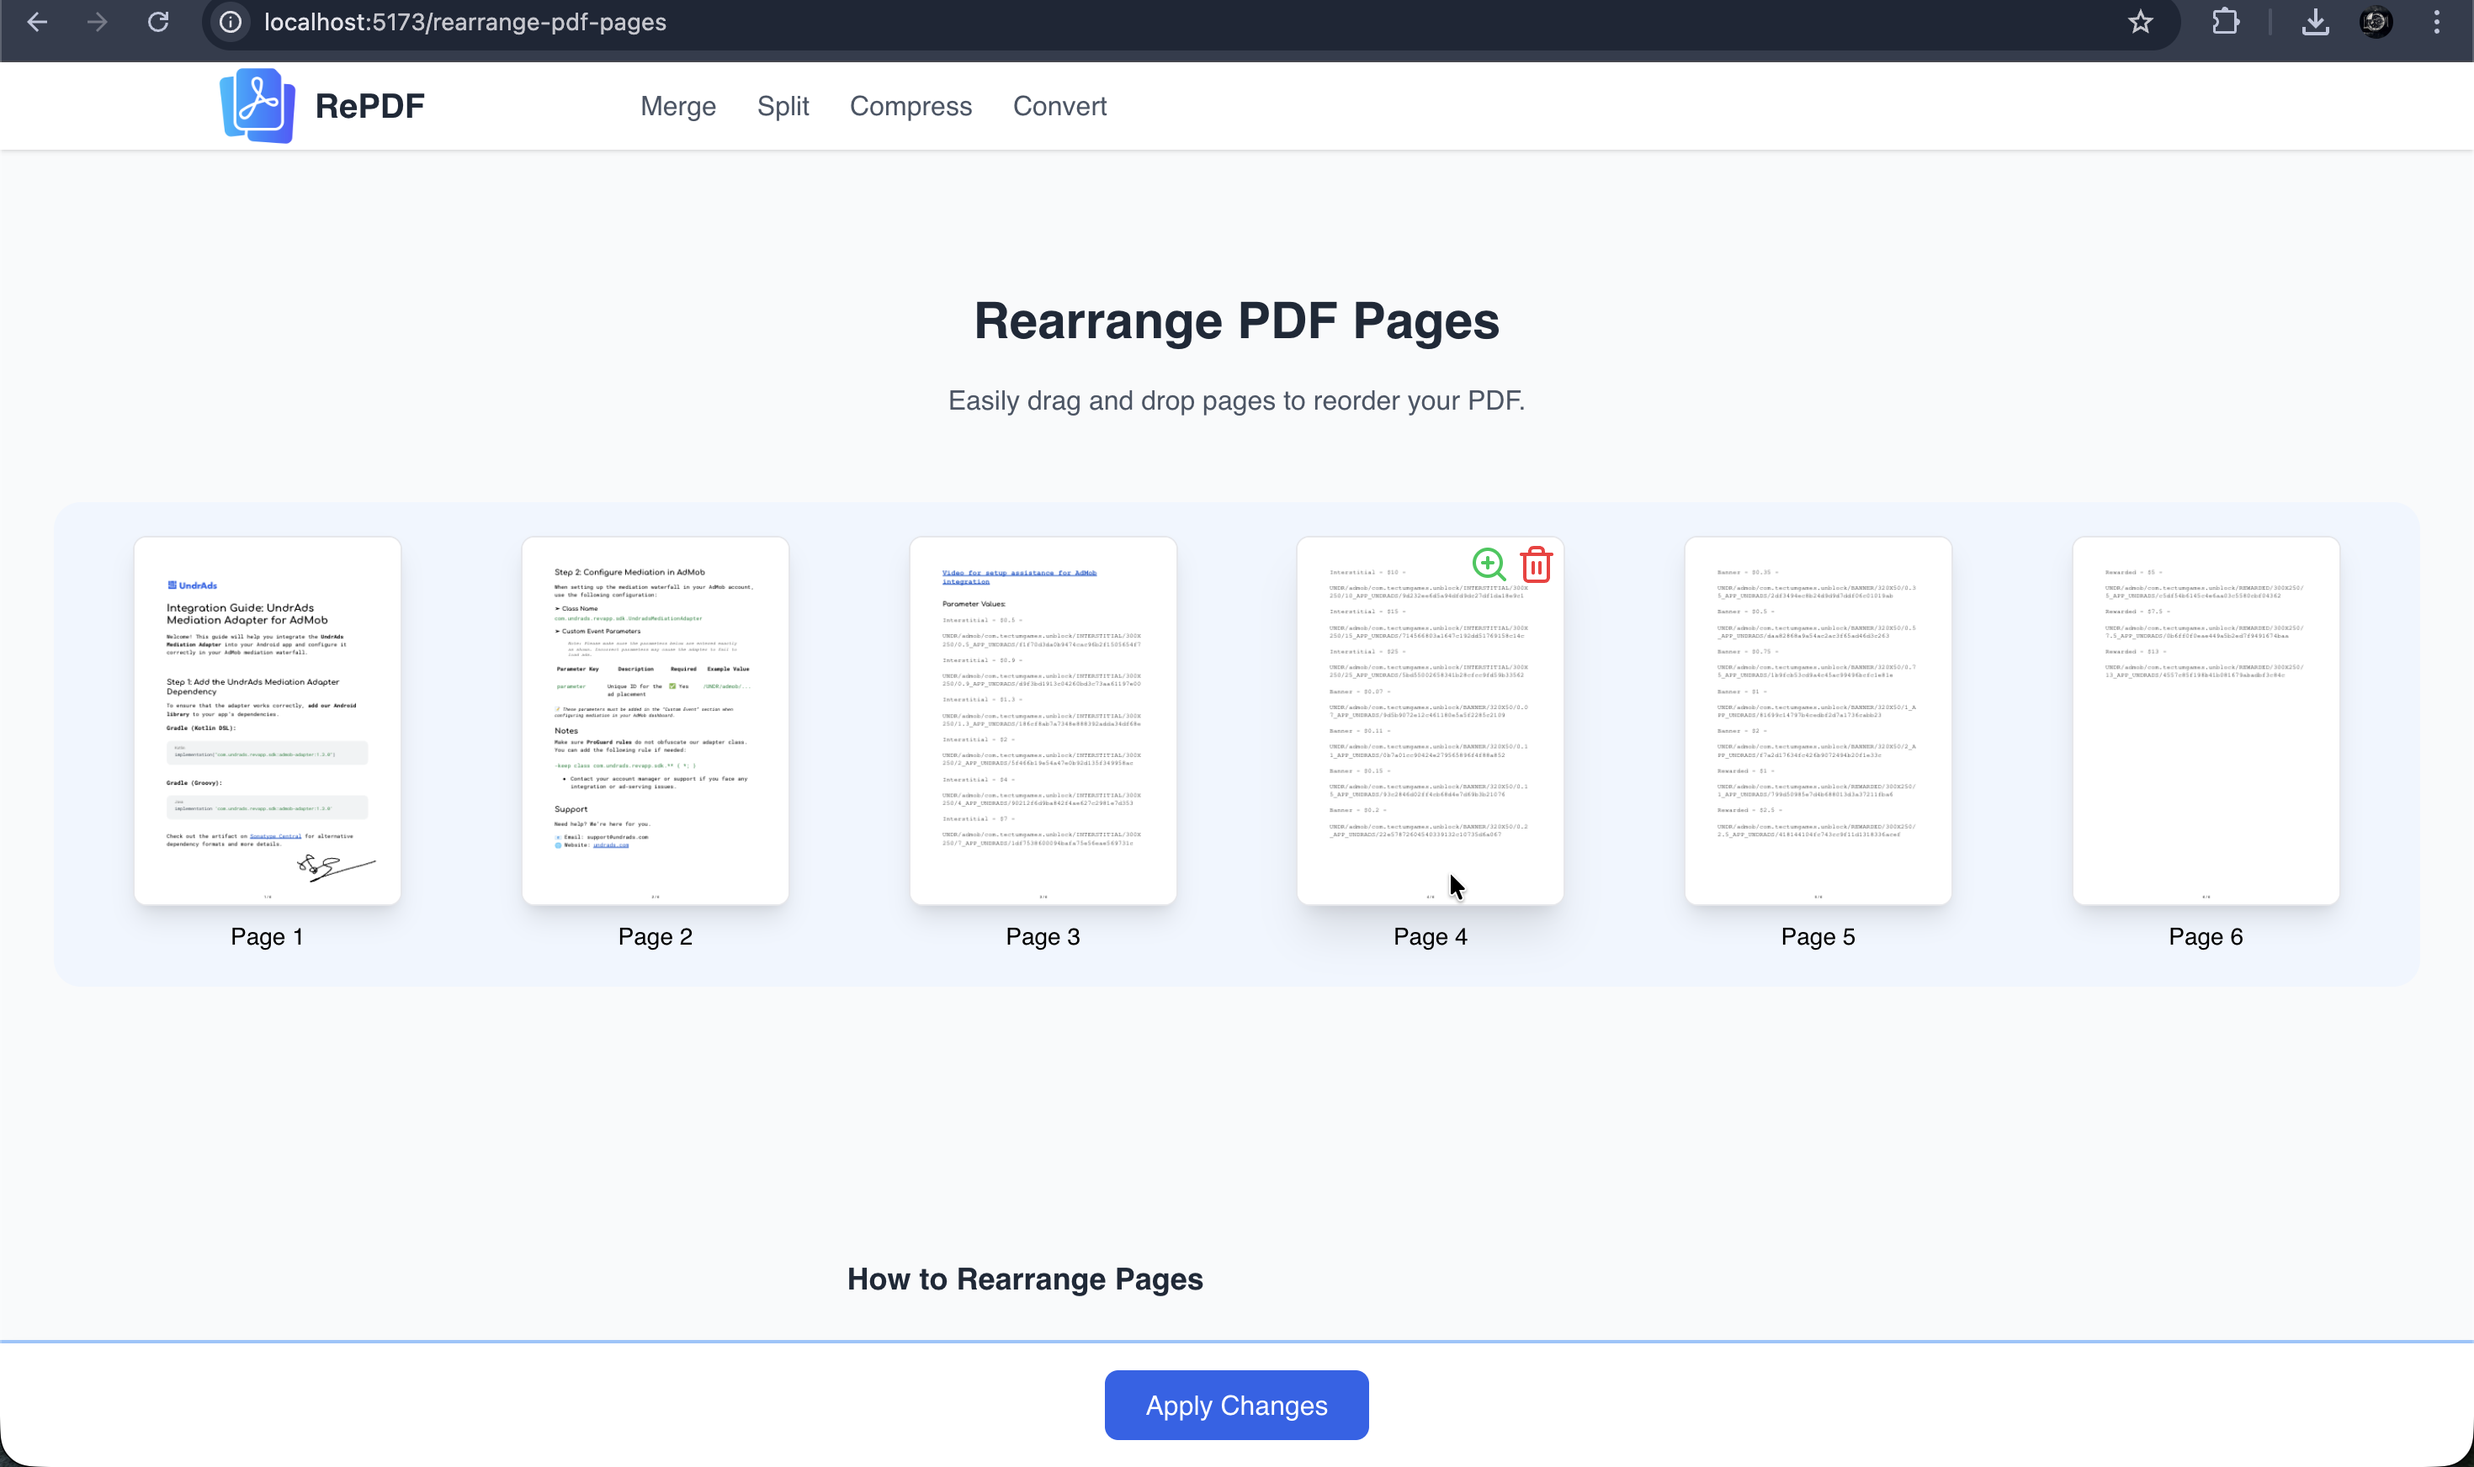
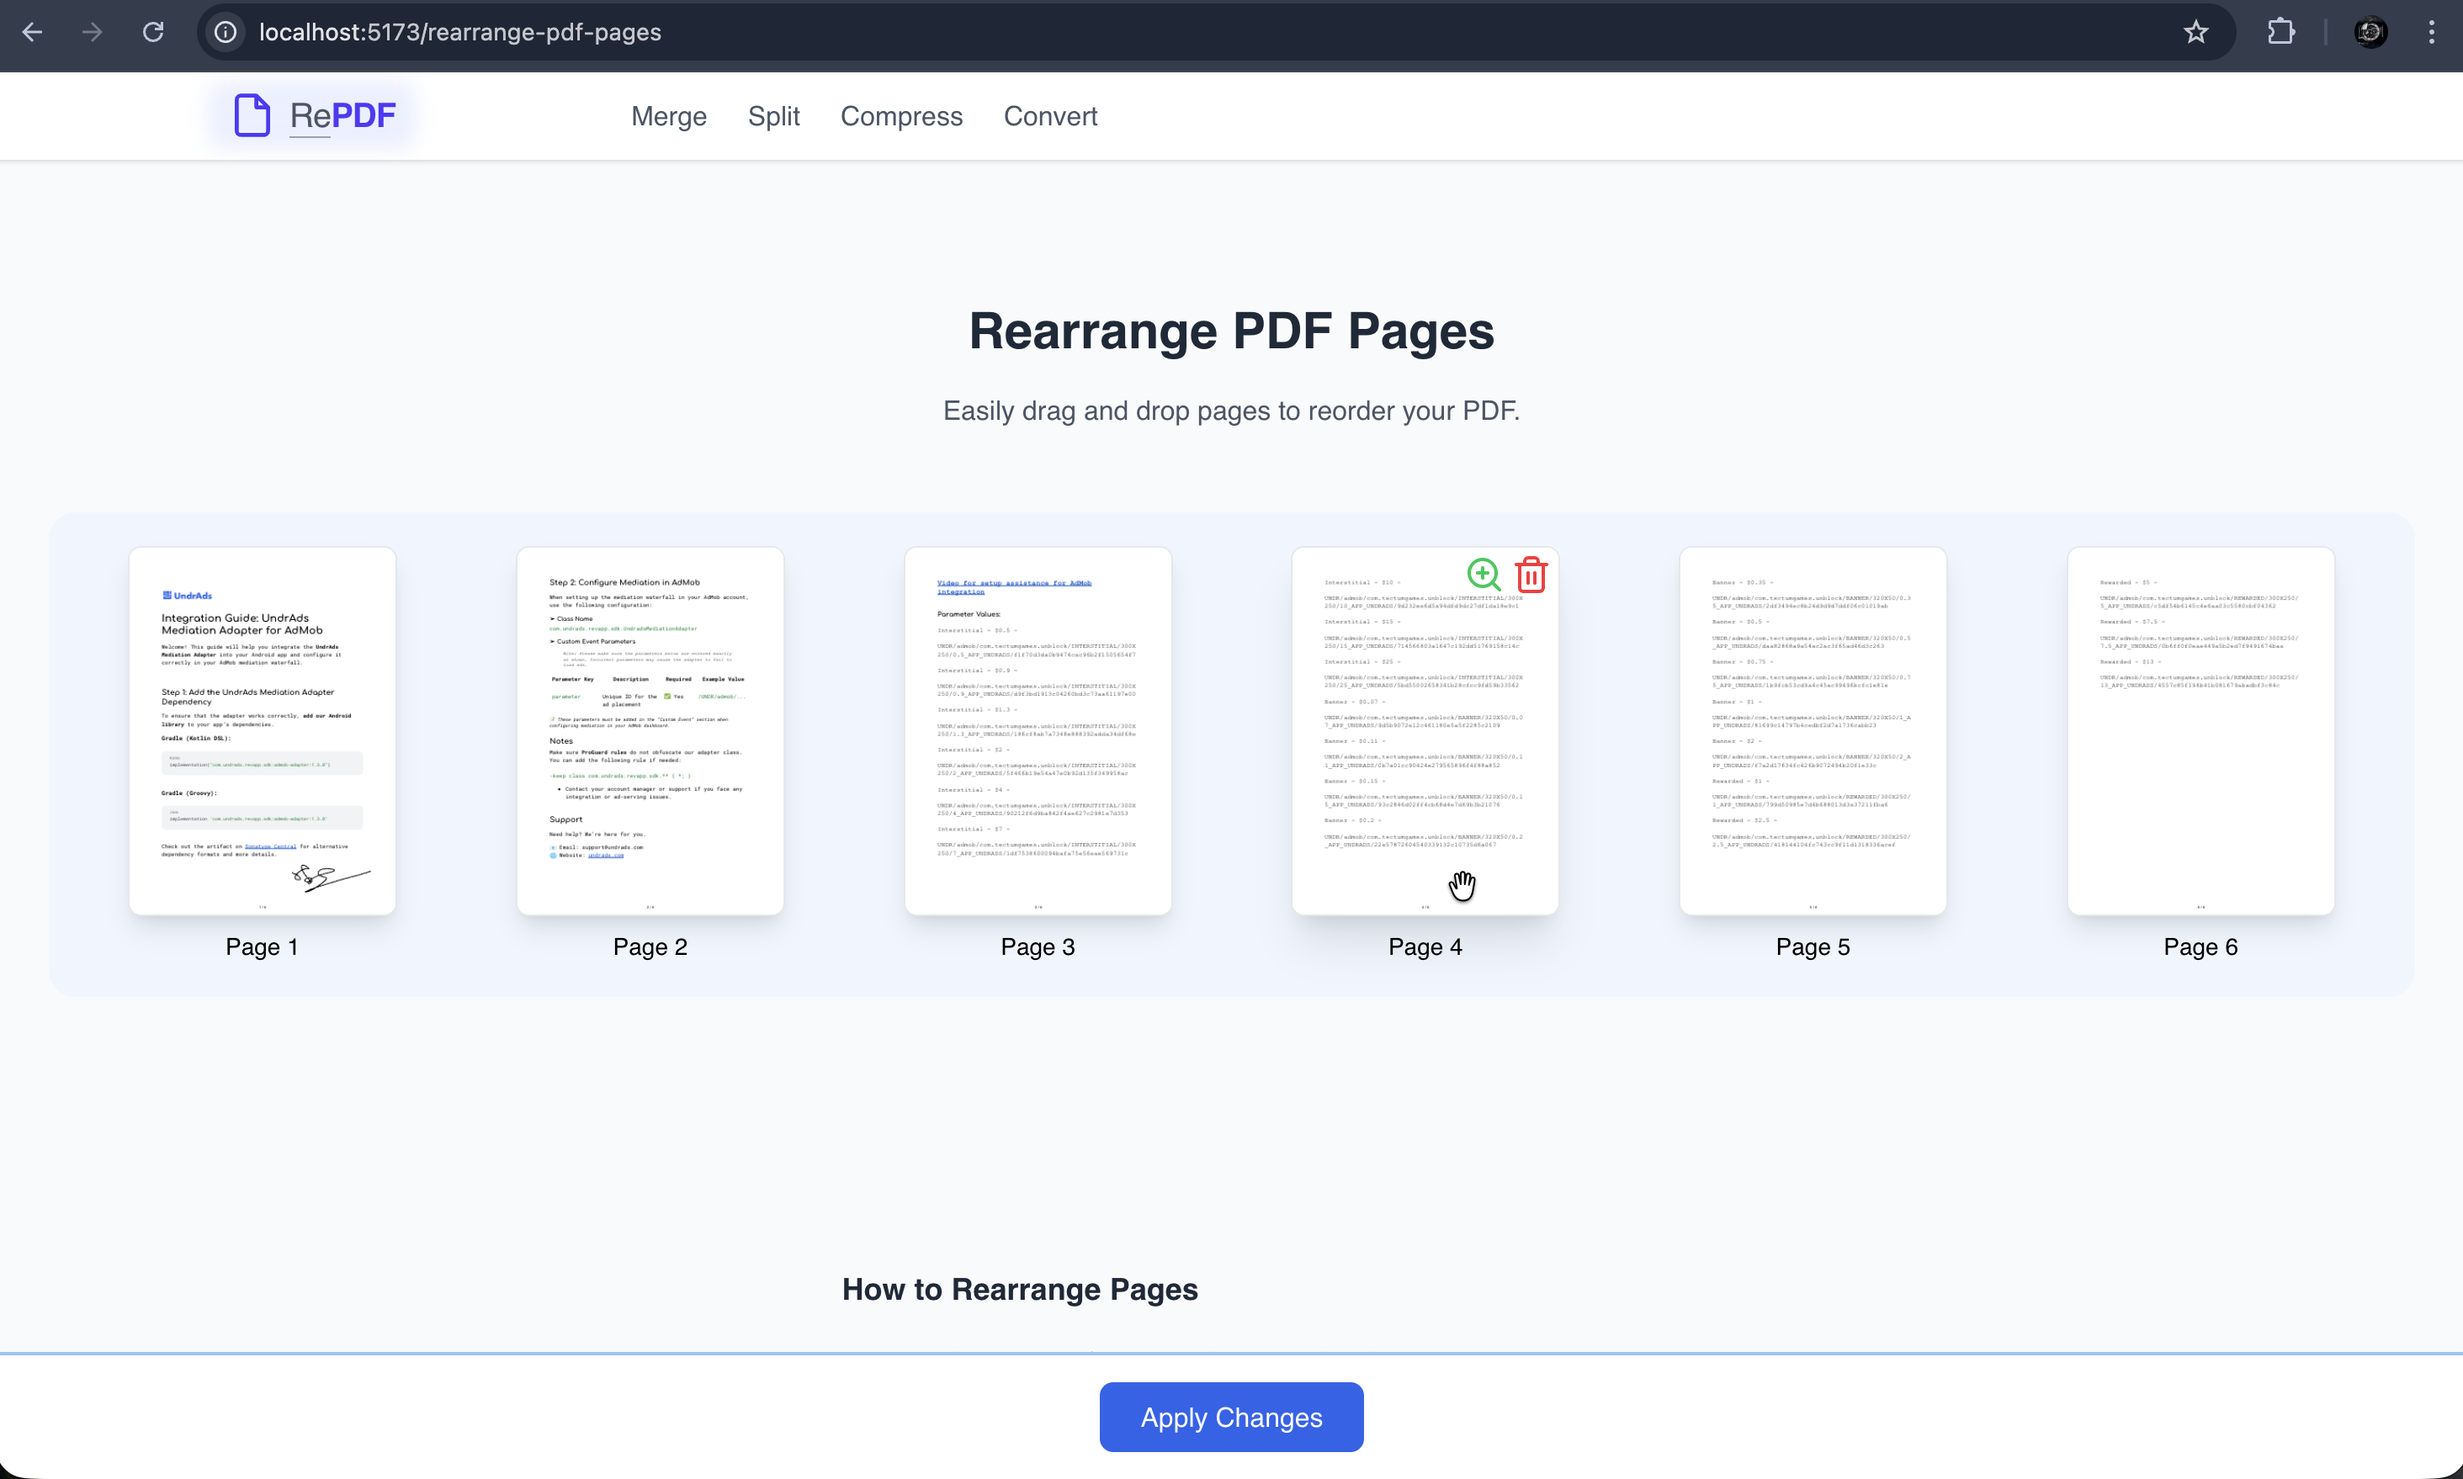
docs: update README

diff --git a/README.md b/README.md
@@ -22,8 +22,8 @@ Users can perform common PDF operations like **compress, convert, lock, unlock, 
 | 🔓 Unlock PDF       | ✅     | Remove user password (requires valid password)                |
 | 🔒 Lock PDF         | ✅     | Add password protection                                       |
 | 📉 Compress PDF     | ✅     | Lossless optimization + optional quality modes (in progress)  |
-| ✂ Split PDF        | 🔜     | Extract page ranges into new files                            |
-| 🧩 Merge PDFs       | 🔜     | Combine multiple PDFs into one                                |
+| ✂ Split PDF        | ✅     | Extract page ranges into new files                            |
+| 🧩 Merge PDFs       | ✅     | Combine multiple PDFs into one                                |
 | ✂ Add Page Numbers | 🔜     | Add page numbers in PDF document                              |
 
 _(✅ Completed · ⏳ In Progress · 🔜 Planned)_
